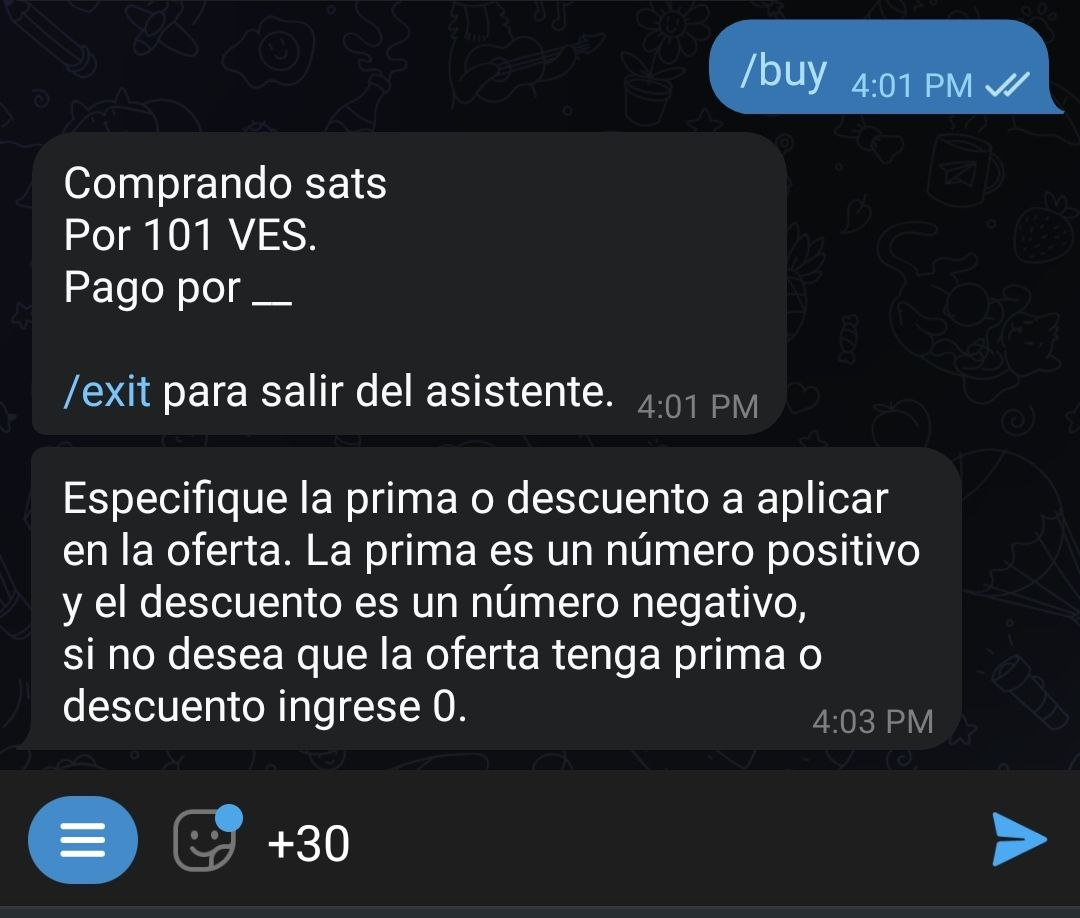
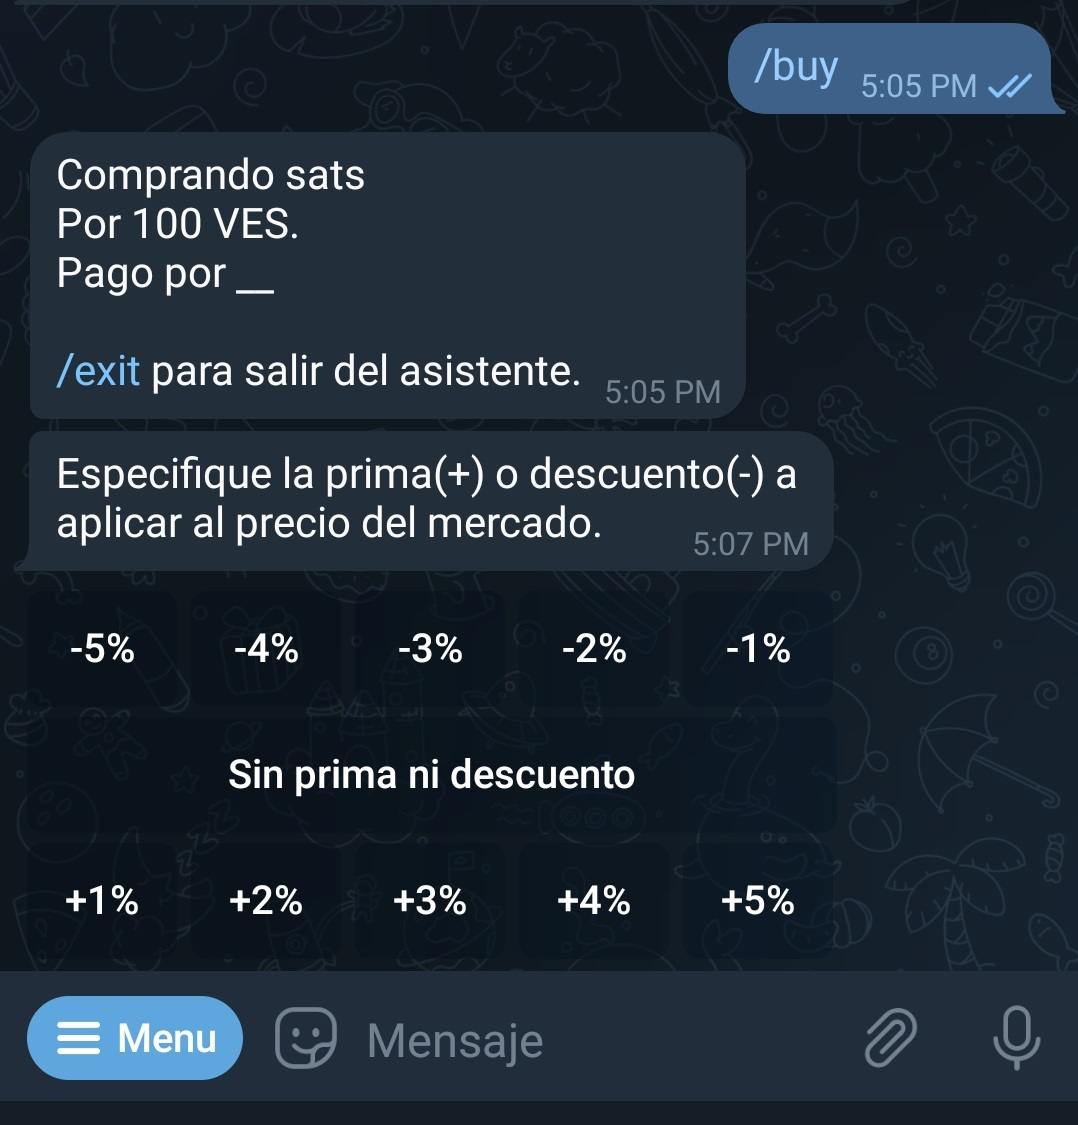
Actualizaciones
Actualizar imágenes y contenido. Reajustes varios.

diff --git a/spanish/src/how-do-i-create-a-buy-order.md b/spanish/src/how-do-i-create-a-buy-order.md
@@ -1,8 +1,6 @@
 # ¿Cómo creo una orden de compra?
 
-Al conversar con [@lnp2pbot](https://t.me/lnp2pbot) encontrarás un botón de menú que te indicará, entre otros, el comando de compra: `/buy`. Este activará al ayudante (o <i>wizard</i>) que te guiará por el proceso de comprar.
-
-![Iniciar el asistente](./assets/images/buy-start.jpg)
+El procedimiento es exactamente el mismo que para la orden de venta. Solo que, que al pulsar el botón 'Menú', debes seleccionar el comando `/buy` en lugar de `/sell`. Este activará el asistente (<i>wizard</i>) que te guiará por el proceso de comprar.
 
 Una vez activado, el asistente te pedirá que especifiques la moneda fiat en la que quieres transar:
 
@@ -14,11 +12,11 @@ También puedes introducir un rango de cantidades a comprar, separando los núme
 
 ![Cantidad de fiat](./assets/images/buy-monto.jpg)
 
-El asistente te preguntará el monto, en satoshis, que quieres recibir. Aquí tienes la posibilidad de usar el botón 'Precio del mercado'; si lo haces, se tomará la tasa de [Yadio.io](https://yadio.io/).
+El asistente te preguntará el monto, en satoshis, que quieres recibir. Aquí tienes la posibilidad de usar el botón 'Precio del mercado'. Si lo haces, se aplicará la tasa de [Yadio.io](https://yadio.io/).
 
 ![Cantidad en satoshis](./assets/images/buy-price.jpg)
 
-Lo siguiente que te solicita el asistente es la prima o descuento que quieres en tu intercambio. Si quieres añadir, usa un número positvo, si quieres disminuir, usa un número negativo. En caso de no querer ninguna, coloca 0.
+Lo siguiente que te solicita el asistente es el porcentaje de prima o descuento que quieres en tu intercambio. Si quieres aumentar la tasa de mercado (prima), selecciona un número positvo; si quieres disminuirla (descuento), selecciona un número negativo. En caso de no querer ninguna, usa el botón 'Sin prima ni descuento'.
 
 ![Prima o descuento](./assets/images/buy-prima.jpg)
 
@@ -42,13 +40,13 @@ En caso de que tu oferta sea tomada, el asistente te pedirá que entregues una f
 
 En este momento el bot pondrá en contacto a ambas partes para que discutan los detalles del intercambio.
 
-Una vez que hayas hecho el pago en fiat, notifica al bot con el comando `/fiatsent`. El bot avisará a tu contraparte para que consulte y verifique la recepción del dinero, y proceda a liberar los satoshis. Recuerda que para recibirlos, tu cartera deberá estar en linea.
+Una vez que hayas hecho el pago en fiat, notifica al bot con el comando `/fiatsent`. El bot avisará a tu contraparte para que consulte y verifique la recepción del dinero, y proceda a liberar los satoshis. Recuerda que para recibirlos tu cartera deberá estar en línea.
 
 El intercambio ha terminado. Ahora puedes calificar a tu contraparte.
 
 Puedes salir del asistente en cualquier momento ejecutando el comando `/exit`.
 
-Para ejecutar la misma orden de venta, sin usar el asistente, debes escribir tu orden con los detalles: `/buy`<monto en sats> <monto en fiat> <código fiat> <método de pago> [prima/descuento] (sin los carácteres especiales).
+Para ejecutar la misma orden de compra, sin usar el asistente, debes escribir tu orden con los detalles: `/buy`<monto en sats> <monto en fiat> <código fiat> <método de pago> [prima/descuento] (sin los carácteres especiales).
 
 Ejemplo: `/buy 100000 50 usd "xyz bank"`
 

diff --git a/spanish/src/how-long-does-it-take-to-finalize-a-transaction.md b/spanish/src/how-long-does-it-take-to-finalize-a-transaction.md
@@ -2,6 +2,6 @@
 
 Depende de varios factores. Por ser un intercambio P2P, el principal es la toma de tu oferta por una contraparte. Tu publicación estará disponible hasta por 23 horas y luego será automáticamente eliminada si nadie la ha tomado.
 
-Una vez aceptada una oferta, se abre una ventana de tiempo de 15 minutos para pagar la factura ligthning y que el bot ponga en contacto a ambas partes. A partir de este punto, tienen un tiempo máximo de dos horas para concretar la operación. Si pasa ese tiempo, la orden expira y los sats serán devueltos a la wallet de procedencia. Por esta razón los usuarios deben utilizar únicamente medios de pago de dinero fíat instantáneos para sus operaciones.
+Una vez aceptada una oferta, se abre una ventana de tiempo de 15 minutos para pagar la factura ligthning y que el bot ponga en contacto a ambas partes. A partir de este punto, tienen un tiempo máximo de dos horas para concretar la operación. Transcurrido ese tiempo, la orden expira y los sats serán devueltos a la wallet de procedencia. Por esta razón los usuarios deben utilizar únicamente medios de pago de dinero fíat instantáneos para sus operaciones.
 
 Al estar ambos participantes en línea y acordar métodos de pago inmediatos, las transacciones son casi instantáneas.

diff --git a/spanish/src/SUMMARY.md b/spanish/src/SUMMARY.md
@@ -18,7 +18,7 @@
   - [¿Cómo cancelo una orden publicada?](./how-do-i-cancel-a-posted-order.md)
   - [¿Hay límites mínimos o máximos en las cantidades que puedo transar?](./is-there-a-limit-on-the-amounts-i-can-trade.md)
   - [¿Cuánto tiempo toma concretar una transacción?](./how-long-does-it-take-to-finalize-a-transaction.md)
-  - [¿Tarifas y comisiones?](./fees-and-commissions.md)
+  - [¿Qué tarifas y comisiones debo pagar?](./fees-and-commissions.md)
   - [¿Qué tasa de cambio utiliza el bot?](./what-exchange-rate-does-the-bot-use.md)
   - [¿En qué países está disponible?](./in-which-countries-is-it-available.md)
   - [¿Cómo puedo saber cuáles son las comunidades que trabajan con mi moneda?](community-find.md)

diff --git a/spanish/src/how-do-i-find-and-accept-an-offer-to-buy-or-sell.md b/spanish/src/how-do-i-find-and-accept-an-offer-to-buy-or-sell.md
@@ -1,4 +1,4 @@
 # ¿Cómo busco y acepto una oferta de compra o venta?
 
-En el canal[@p2plightning](https://t.me/p2plightning) encontrarás publicadas las ofertas de todos los participantes, incluidas las tuyas. Simplemente revísalo hasta encontrar alguna orden que se adapte a tu búsqueda y pulsa el botón 
+En el canal [@p2plightning](https://t.me/p2plightning) encontrarás publicadas las ofertas de todos los participantes, incluidas las tuyas. Simplemente, revísalo hasta encontrar alguna orden que se adapte a tu búsqueda y pulsa el botón 
 `comprar satoshis` o `vender satoshis`, según sea el caso.

diff --git a/spanish/src/how-do-i-cancel-a-posted-order.md b/spanish/src/how-do-i-cancel-a-posted-order.md
@@ -1,5 +1,5 @@
 # ¿Cómo cancelo una orden publicada?
 
 Si la orden no ha sido tomada, simplemente utilizas el comando `/cancel <orden id>` en tu chat con el bot.
-El ID o número identificador de tu orden aparece justo debajo del mensaje de aceptación y publicación de la misma, e incluso, se te indica como opción para cancelarla.
+El ID o número identificador aparece justo debajo del mensaje de aceptación y publicación de tu orden e, incluso, se te indica como opción para cancelarla.
 Si la orden ha sido tomada, deberás iniciar una cancelación cooperativa.

diff --git a/spanish/src/is-there-a-limit-on-the-amounts-i-can-trade.md b/spanish/src/is-there-a-limit-on-the-amounts-i-can-trade.md
@@ -1,3 +1,3 @@
 # ¿Hay algún límite (mínimo o máximo) en las cantidades que puedo transar?
 
-Desde el bot, no hay límites para el volumen de tu transacción. Sin embargo, dependerá de la capacidad de la red y la liquidez del canal que puedas en determinado momento encontrar un límite máximo.
+Desde el bot, no hay límites para el volumen de tu transacción. Sin embargo, dependiendo de la capacidad de la red y la liquidez del canal, en determinado momento podrás encontrar un límite máximo.

diff --git a/spanish/src/fees-and-commissions.md b/spanish/src/fees-and-commissions.md
@@ -1,3 +1,3 @@
-# ¿Cuáles son las tarifas y comisiones?
+# ¿Debo pagar tarifas y comisiones?
 
 El bot cobra una tasa fija de 0,6%. Esta tasa incluye la tarifa de red, por lo que no hay cobros adicionales. Esta comisión la paga solo el vendedor, no el comprador.
